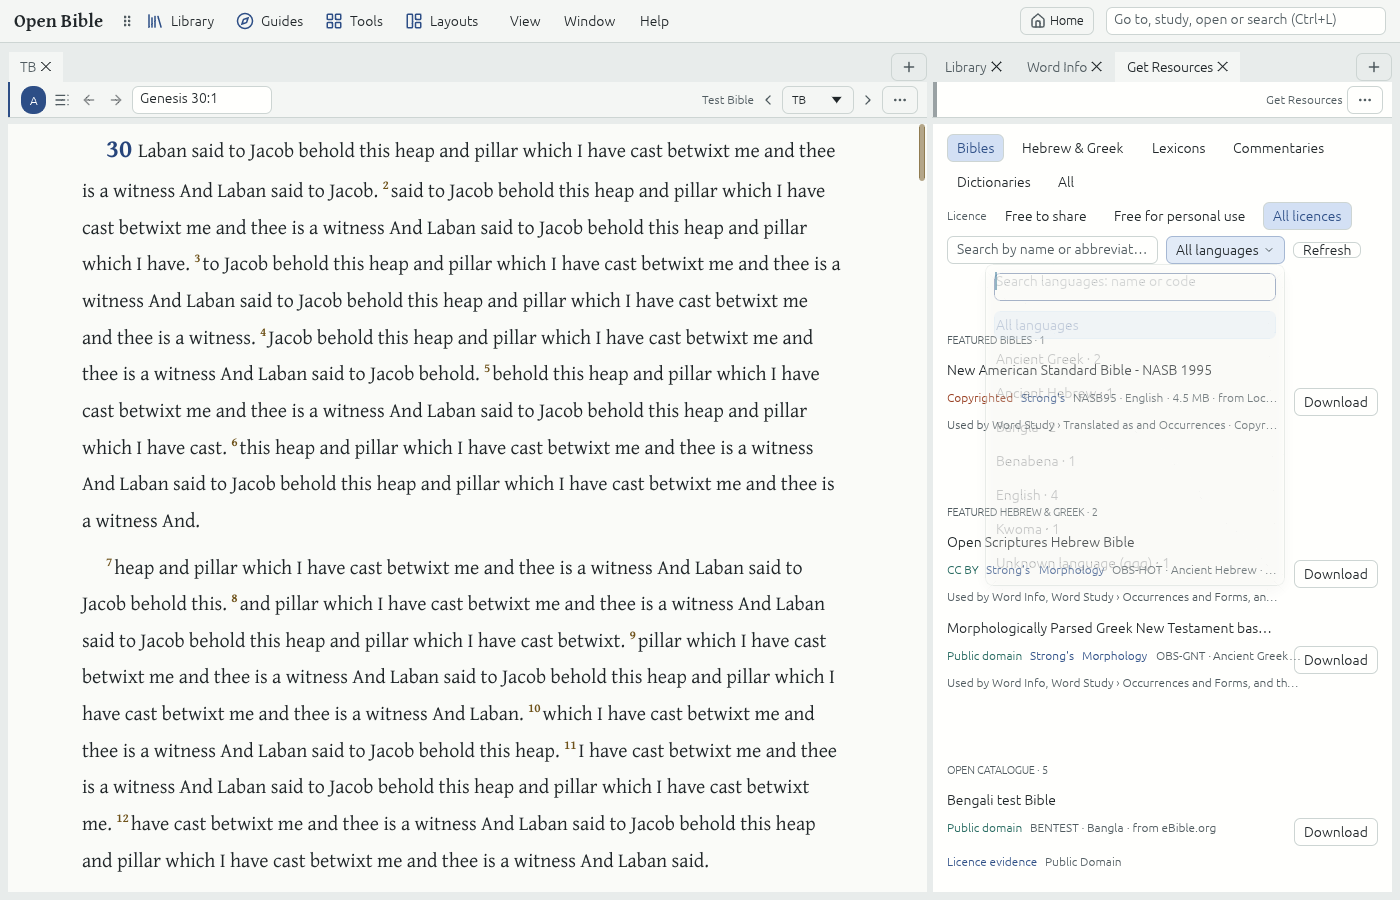
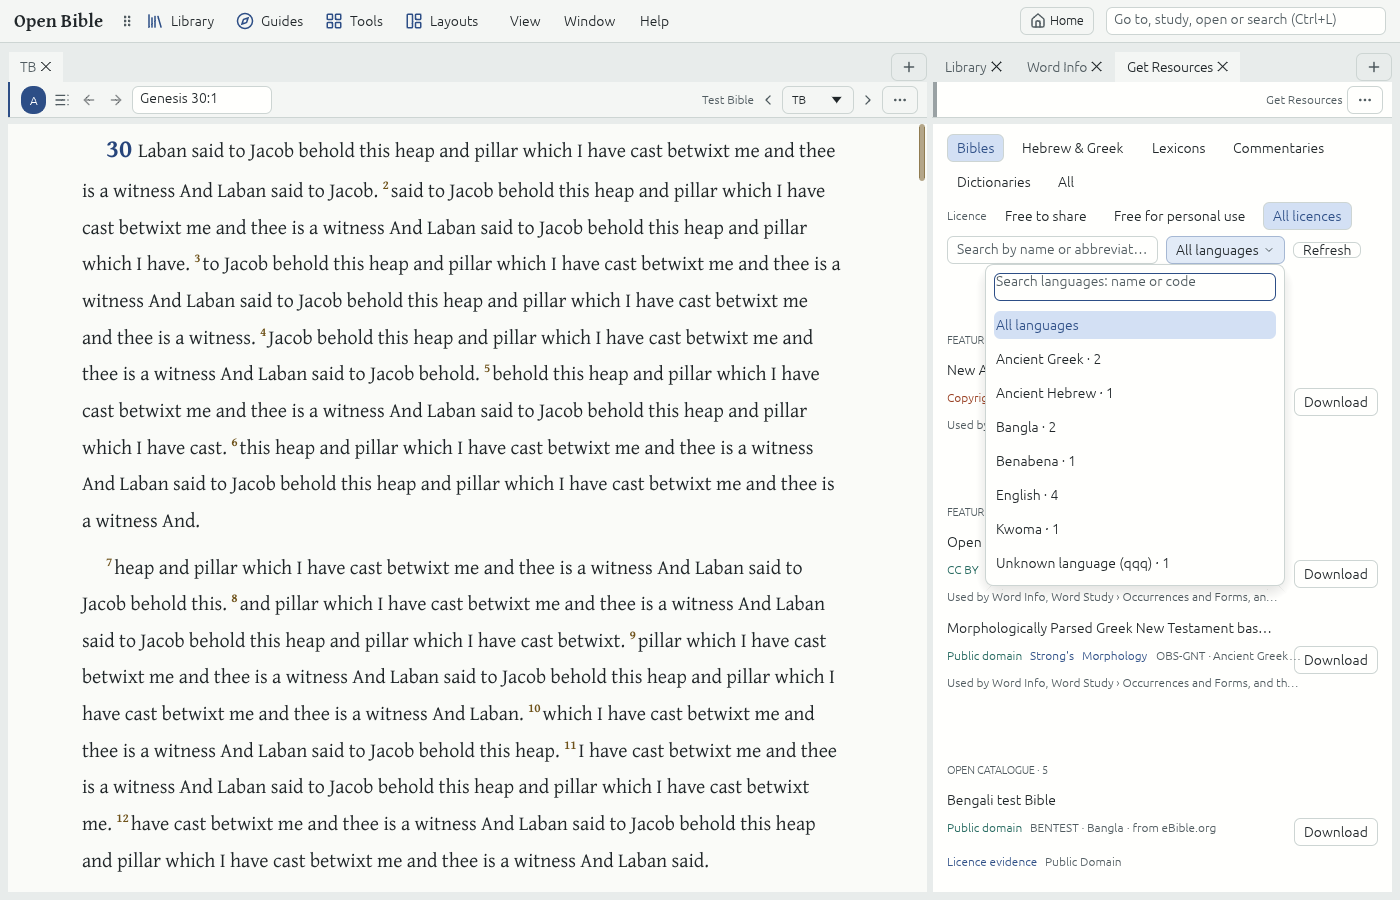
test(get-resources): settled language filter previews and a before image (#244)

Changed region(s): [[0.7064, 0.28, 0.9214, 0.6533]]

diff --git a/crates/ui-egui/src/shell_tests.rs b/crates/ui-egui/src/shell_tests.rs
@@ -3784,7 +3784,7 @@ mod get_bibles {
         );
         let at = |t: &str| choices.iter().position(|c| c.starts_with(t)).unwrap();
         assert!(at("Ancient Greek") < at("Bangla") && at("Bangla") < at("English"));
-        preview(&h, "get-resources-language-filter-names");
+        preview_settled(&mut h, "get-resources-language-filter-names");
 
         for query in ["Bengali", "Bangla", "ben"] {
             search_languages(&mut h, query);
@@ -3811,7 +3811,7 @@ mod get_bibles {
             assert!(shown[0].starts_with("Bangla"), "{query:?}: {shown:?}");
             assert!(h.find("English · 4").is_none(), "{query:?} hides the rest");
             if query == "Bengali" {
-                preview(&h, "get-resources-language-filter-search-bengali");
+                preview_settled(&mut h, "get-resources-language-filter-search-bengali");
             }
         }
         search_languages(&mut h, "klingon");
@@ -4060,6 +4060,14 @@ mod get_bibles {
                 std::path::Path::new(env!("CARGO_MANIFEST_DIR")).join("../../target/previews");
             std::fs::create_dir_all(&dir).unwrap();
             h.screenshot(&dir.join(format!("{name}.ppm")));
+        }
+    }
+
+    /// `preview` once a popup's fade-in has finished.
+    fn preview_settled(h: &mut Harness, name: &str) {
+        if std::env::var_os("UPDATE_PREVIEWS").is_some() {
+            h.frames(30);
+            preview(h, name);
         }
     }
 
